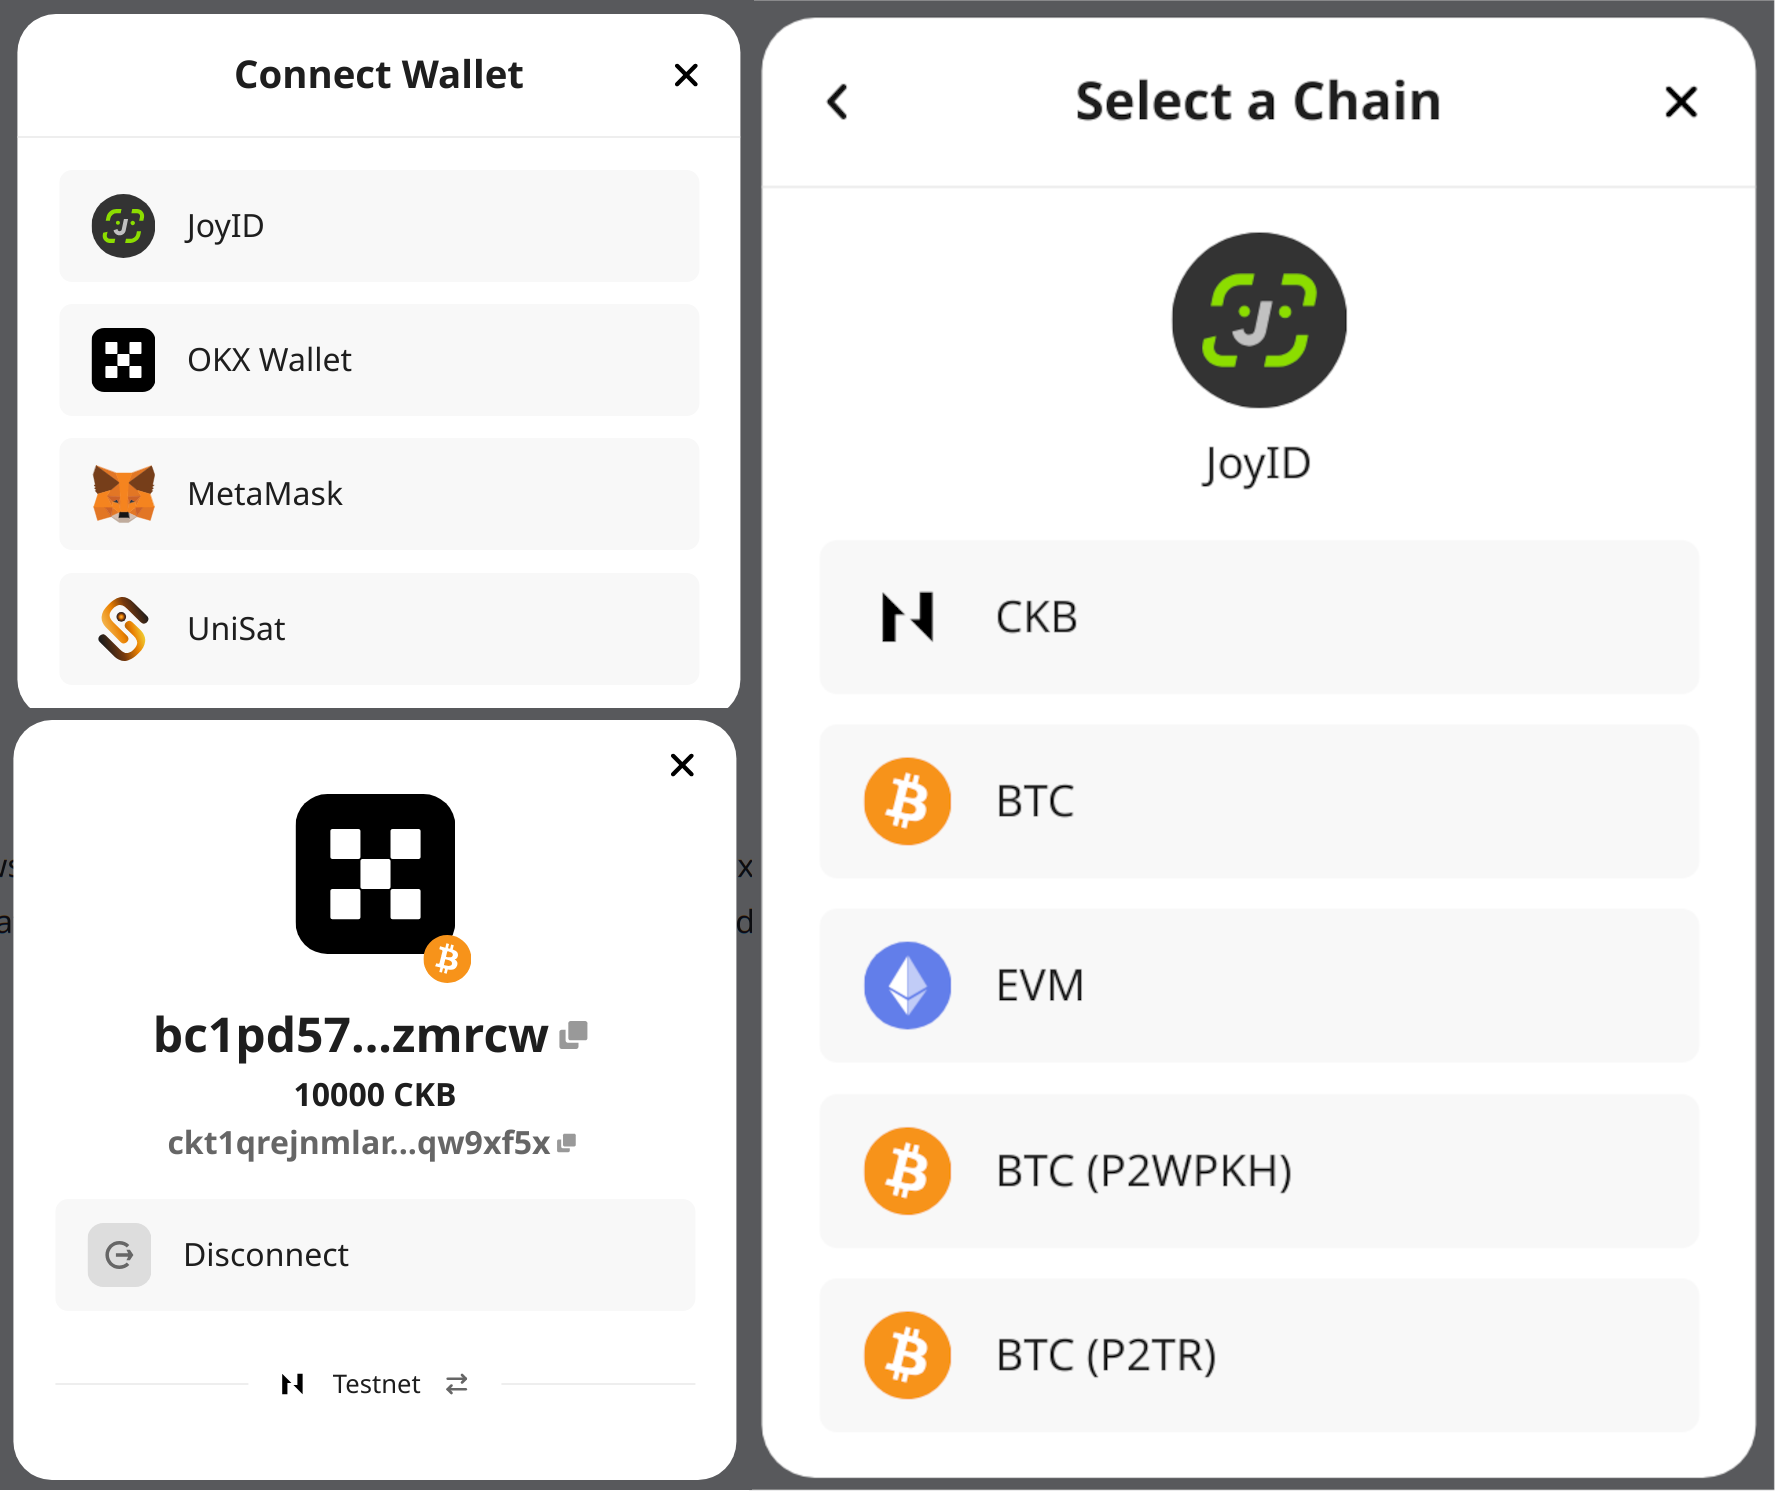
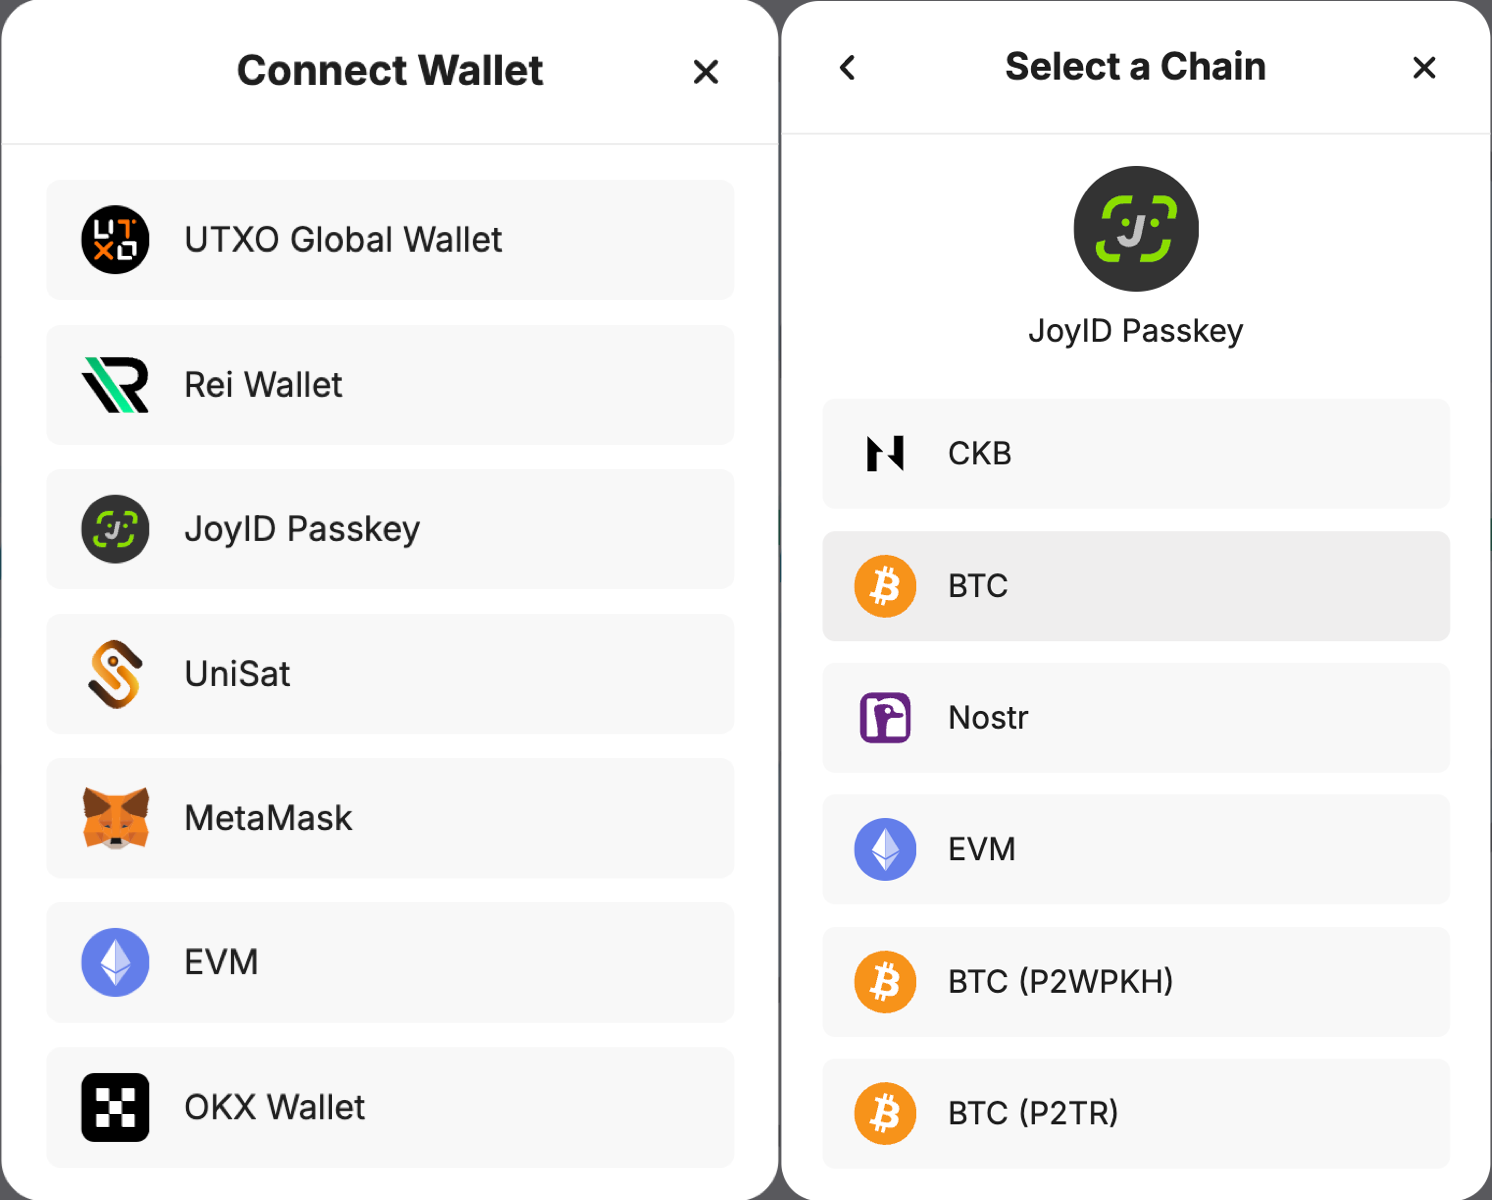
docs: update wallet integration and ecosystem content
- Improve CCC wallet integration documentation
  - Add EVM address integration details for mobile wallets (imToken, SafePal)
  - Update wallet links and descriptions
  - Add links to live demos and source code for examples

- Update ecosystem cards
  - Add Fiber Network and Mobit to ecosystem projects
  - Add UTXO Global Wallet with detailed description
  - Update tags for Nervape (NFT → DOB) and Omiga
  - Reorganize project order for better categorization

- Fix image display in blog posts
  - Center transaction diagrams in intro-to-script-1.md using proper HTML alignment

diff --git a/website/docs/ecosystem/EcoCardContents.tsx b/website/docs/ecosystem/EcoCardContents.tsx
@@ -31,6 +31,17 @@ const ecoCardContents: EcoCardProps[] = [
     ],
   },
   {
+    title: "Fiber Network",
+    description: "A scalable, privacy-by-default payment & swap network",
+    href: "https://www.fiber.world/",
+    bannerSrc: "fiber",
+    tags: ["Protocol"],
+    links: [
+      { label: "website", link: "https://fiber.world/" },
+      { label: "github", link: "https://github.com/nervosnetwork/fiber" },
+    ],
+  },
+  {
     title: "JoyID",
     description: "A web-based passwordless and mnemonic-free wallet solution",
     href: "https://joy.id/",
@@ -58,6 +69,18 @@ const ecoCardContents: EcoCardProps[] = [
     links: [{ label: "website", link: "https://haste.pro/" }],
   },
   {
+    title: "Mobit",
+    description:
+      "Effortlessly and securely transfer assets between Bitcoin and CKB",
+    href: "https://mobit.app/",
+    bannerSrc: "mobit",
+    tags: ["RGB++", "DApp"],
+    links: [
+      { label: "website", link: "https://mobit.app/" },
+      { label: "github", link: "https://github.com/unistate-io/mobit" },
+    ],
+  },
+  {
     title: "UTXO Swap",
     description:
       "An AMM DEX that trades assets within the RGB++ and CKB ecosystems",
@@ -78,42 +101,12 @@ const ecoCardContents: EcoCardProps[] = [
     links: [{ label: "website", link: "https://www.stablepp.xyz/" }],
   },
   {
-    title: "Unicorn",
-    description: "The First DOBs on CKB",
-    href: "https://unidob.xyz/",
-    bannerSrc: "unicorn",
-    tags: ["DOB"],
-    links: [
-      { label: "website", link: "https://unidob.xyz/" },
-      {
-        label: "doc",
-        link: "https://unicorns-organization.gitbook.io/unicorn-cao-zuo-shou-ce",
-      },
-    ],
-  },
-  {
     title: "Dobby market",
     description: "The platform for Digital Objects on Bitcoin",
     href: "https://app.dobby.market/",
     bannerSrc: "dobby",
     tags: ["DOB", "DEX", "DApp"],
     links: [{ label: "website", link: "https://app.dobby.market/" }],
-  },
-  {
-    title: "World3",
-    description: "AI-powered autonomous world on Bitcoin",
-    href: "https://world3.ai/",
-    bannerSrc: "world3",
-    tags: ["AIW"],
-    links: [{ label: "website", link: "https://world3.ai/" }],
-  },
-  {
-    title: "Cellula",
-    description: "A fully on-chain artificial life simulation game",
-    href: "https://www.cellula.life/",
-    bannerSrc: "cellula",
-    tags: ["AIW"],
-    links: [{ label: "website", link: "https://www.cellula.life/" }],
   },
   {
     title: ".bit",
@@ -136,7 +129,7 @@ const ecoCardContents: EcoCardProps[] = [
       "The 1st inscription protocol established on Nervos $CKB blockchain",
     href: "https://omiga.io/",
     bannerSrc: "omiga",
-    tags: ["Protocol", "DOB", "DEX", "DApp"],
+    tags: ["DOB", "DEX", "DApp"],
     links: [
       { label: "website", link: "https://omiga.io/" },
       { label: "doc", link: "https://docs.omiga.io/" },
@@ -156,14 +149,13 @@ const ecoCardContents: EcoCardProps[] = [
       },
     ],
   },
-
   {
     title: "Nervape",
     description:
-      "A Metaverse with an ongoing Story and NFTs Shaped by the Community",
+      "A Metaverse with an ongoing Story and DOBs Shaped by the Community",
     href: "https://nervape.com/",
     bannerSrc: "nervape",
-    tags: ["NFT"],
+    tags: ["DOB"],
     links: [
       { label: "website", link: "https://nervape.com/" },
       { label: "github", link: "https://github.com/nervape" },
@@ -210,6 +202,36 @@ const ecoCardContents: EcoCardProps[] = [
         link: "https://nftnation.gitbook.io/nftnation-explained",
       },
     ],
+  },
+  {
+    title: "Unicorn",
+    description: "The First DOBs on CKB",
+    href: "https://unidob.xyz/",
+    bannerSrc: "unicorn",
+    tags: ["DOB"],
+    links: [
+      { label: "website", link: "https://unidob.xyz/" },
+      {
+        label: "doc",
+        link: "https://unicorns-organization.gitbook.io/unicorn-cao-zuo-shou-ce",
+      },
+    ],
+  },
+  {
+    title: "World3",
+    description: "AI-powered autonomous world on Bitcoin",
+    href: "https://world3.ai/",
+    bannerSrc: "world3",
+    tags: ["AIW"],
+    links: [{ label: "website", link: "https://world3.ai/" }],
+  },
+  {
+    title: "Cellula",
+    description: "A fully on-chain artificial life simulation game",
+    href: "https://www.cellula.life/",
+    bannerSrc: "cellula",
+    tags: ["AIW"],
+    links: [{ label: "website", link: "https://www.cellula.life/" }],
   },
   {
     title: "CKB Explorer",
@@ -286,6 +308,25 @@ const ecoCardContents: EcoCardProps[] = [
       {
         label: "doc",
         link: "https://medium.com/imtoken/imtoken-2-5-0-now-with-nervos-tron-bch-ltc-support-14d7171ccf4",
+      },
+    ],
+  },
+  {
+    title: "UTXO Global Wallet",
+    description:
+      "UTXO Global is a revolutionary wallet for the CKB ecosystem. It delivers the robust security guarantees of the UTXO model while addressing its limitations in scalability and interoperability.",
+    href: "https://utxo.global/",
+    bannerSrc: "utxoglobal",
+    tags: ["RGB++", "Wallet", "Multi-Sig"],
+    links: [
+      { label: "website", link: "https://utxo.global/" },
+      {
+        label: "github",
+        link: "https://github.com/UTXO-Global/utxo-wallet-extension",
+      },
+      {
+        label: "doc",
+        link: "https://utxo-global.gitbook.io/utxo-global",
       },
     ],
   },

diff --git a/website/docs/integrate-wallets/CardContents.tsx b/website/docs/integrate-wallets/CardContents.tsx
@@ -42,6 +42,11 @@ const walletCardContents: WalletCardProps[] = [
     tags: ["Mobile", "Desktop", "Hardware"],
   },
   {
+    title: "UTXO Global",
+    href: "https://utxo.global/",
+    tags: ["Browser Extension", "Multi-Sig"],
+  },
+  {
     title: "Rei Wallet",
     href: "https://reiwallet.io/#home",
     tags: ["Browser Extension"],

diff --git a/website/blog/intro-to-script-1.md b/website/blog/intro-to-script-1.md
@@ -20,7 +20,9 @@ Note even though I believe CKB's programming model is quite stable now, developm
 
 Below illustrates a real transaction on CKB:
 
+<p align="center">
 ![Transaction Example](/img/blog/tx.svg)
+</p>
 
 There are a lot of things going on in this graph, and we will come back to this graph again in later posts. Today, we will just focus on 2 entities in the cell data structure: `lock` and `type`.
 
@@ -77,7 +79,9 @@ Now let's see when lock and type scripts are executed.
 
 Here's the transaction we see earlier again:
 
+<p align="center">
 ![Transaction Example](/img/blog/tx.svg)
+</p>
 
 For this example, the execution flow is as follows:
 
